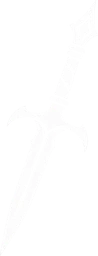
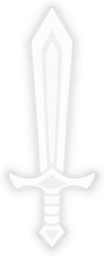
Nouveau cadre : texte des effets plafonné qui défile, épée et bouclier simplifiés
- Le texte de règles a une hauteur maximale et défile avec une barre fine et
  dorée (Le Géant Chromatique ne recouvre plus l'illustration).
- Épée et bouclier v2 ; `ICONES_REV` dans l'adresse des icônes pour passer
  le cache quand une icône est remplacée sous le même nom.
- La page de test montre aussi la carte au texte le plus long.

diff --git a/features/cadre-preview/NouveauCadreCard.tsx b/features/cadre-preview/NouveauCadreCard.tsx
@@ -28,6 +28,12 @@ import styles from "@/features/cadre-preview/NouveauCadreCard.module.css";
  * Toutes les icônes (type, cerveau, épée, bouclier) sont fournies, blanches.
  */
 const ASSETS = "/assets/cards/frames/nouveau";
+/**
+ * Version des icônes (type, cerveau, épée, bouclier) : une icône remplacée
+ * sous le même nom resterait un jour en cache (service worker + HTTP).
+ * À monter à chaque nouvelle livraison d'icônes.
+ */
+const ICONES_REV = 2;
 
 export interface NouveauCadreFaceProps {
   def: CardDefinition;
@@ -115,7 +121,7 @@ export function NouveauCadreFace({ def, legendaire = false, attack, health, atta
       <div className="absolute flex flex-col items-center text-white" style={{ top: "5%", right: "10%", width: "20%" }}>
         {/* eslint-disable-next-line @next/next/no-img-element */}
         <img
-          src={`${ASSETS}/types/${def.type}.webp`}
+          src={`${ASSETS}/types/${def.type}.webp?v=${ICONES_REV}`}
           alt=""
           className="object-contain"
           style={{ height: "13cqw", width: "auto", filter: "drop-shadow(0 0.4cqw 0.6cqw rgba(0,0,0,0.7))" }}
@@ -142,8 +148,9 @@ export function NouveauCadreFace({ def, legendaire = false, attack, health, atta
         </h3>
         {def.text && (
           <p
-            className="font-semibold [font-family:var(--font-card-body)]"
-            style={{ fontSize: `${rulesSizeCqw(def.text)}cqw`, lineHeight: 1.2, marginTop: "3cqw", textShadow: RULES_SHADOW }}
+            // Hauteur plafonnée : un texte long (Le Géant Chromatique…) défile dans sa zone au lieu de recouvrir l'illustration.
+            className={`font-semibold [font-family:var(--font-card-body)] ${styles.regles}`}
+            style={{ fontSize: `${rulesSizeCqw(def.text)}cqw`, lineHeight: 1.2, marginTop: "3cqw", maxHeight: "36cqw", textShadow: RULES_SHADOW }}
           >
             {def.text}
           </p>
@@ -230,24 +237,24 @@ function nameSizeCqw(name: string): number {
 }
 
 function rulesSizeCqw(text: string): number {
-  if (text.length <= 90) return 5.4;
-  if (text.length <= 150) return 5;
-  if (text.length <= 220) return 4.4;
-  return 3.9;
+  if (text.length <= 90) return 5.2;
+  if (text.length <= 150) return 4.8;
+  if (text.length <= 220) return 4.3;
+  return 4;
 }
 
 /** Cerveau de Raison (icône fournie). */
 function BrainGlyph() {
-  return <StatIcon src={`${ASSETS}/cerveau.webp`} height="0.75em" />;
+  return <StatIcon src={`${ASSETS}/cerveau.webp?v=${ICONES_REV}`} height="0.75em" />;
 }
 
 /** Épée de Puissance et bouclier de Résistance : même hauteur, en `em` pour suivre le chiffre. */
 function SwordGlyph() {
-  return <StatIcon src={`${ASSETS}/epee.webp`} height="1.1em" />;
+  return <StatIcon src={`${ASSETS}/epee.webp?v=${ICONES_REV}`} height="1.1em" />;
 }
 
 function ShieldGlyph() {
-  return <StatIcon src={`${ASSETS}/bouclier.webp`} height="0.9em" />;
+  return <StatIcon src={`${ASSETS}/bouclier.webp?v=${ICONES_REV}`} height="0.9em" />;
 }
 
 /** L'épée, fine, monte un peu plus haut que le bouclier pour peser autant que lui. */

diff --git a/features/cadre-preview/CadrePreview.tsx b/features/cadre-preview/CadrePreview.tsx
@@ -5,7 +5,7 @@ import { CORE_SET, isAbyssalVariant, type CardDefinition, type CardType } from "
 import { CardTile } from "@/features/match/CardTile";
 import { NouveauCadreCard } from "@/features/cadre-preview/NouveauCadreCard";
 
-/** La carte de la maquette d'abord, puis une carte par type (une sans stats, une Résistance seule…), puis deux Abyssales. */
+/** La carte de la maquette d'abord, puis une carte par type (une sans stats, une Résistance seule…), puis deux Abyssales, puis le texte le plus long du catalogue (zone qui défile). */
 const MAQUETTE_ID = "la-bete-quon-nattend-plus";
 const TYPES: CardType[] = ["creature", "marin", "equipement", "structure", "objet", "anomalie"];
 
@@ -15,7 +15,8 @@ function echantillon(): CardDefinition[] {
     (card): card is CardDefinition => card !== undefined
   );
   const abyssales = CORE_SET.filter(isAbyssalVariant).slice(0, 2);
-  return [...(maquette ? [maquette] : []), ...parType, ...abyssales];
+  const texteLePlusLong = CORE_SET.reduce((longest, card) => ((card.text?.length ?? 0) > (longest.text?.length ?? 0) ? card : longest));
+  return [...(maquette ? [maquette] : []), ...parType, ...abyssales, texteLePlusLong];
 }
 
 /**

diff --git a/features/cadre-preview/NouveauCadreCard.module.css b/features/cadre-preview/NouveauCadreCard.module.css
@@ -140,6 +140,31 @@
   mask-image: linear-gradient(to bottom, #000 72%, transparent 100%);
 }
 
+/* Texte de règles plafonné : il défile au besoin, avec une barre fine et
+   dorée plutôt que la barre grise du système. La marge à droite laisse la
+   barre hors du texte. */
+.regles {
+  overflow-y: auto;
+  overscroll-behavior: contain;
+  padding-right: 1.5cqw;
+  scrollbar-width: thin;
+  scrollbar-color: rgba(232, 200, 140, 0.7) rgba(255, 255, 255, 0.08);
+}
+
+.regles::-webkit-scrollbar {
+  width: 1.2cqw;
+}
+
+.regles::-webkit-scrollbar-track {
+  background: rgba(255, 255, 255, 0.08);
+  border-radius: 1cqw;
+}
+
+.regles::-webkit-scrollbar-thumb {
+  background: linear-gradient(to bottom, rgba(245, 215, 150, 0.9), rgba(190, 140, 70, 0.9));
+  border-radius: 1cqw;
+}
+
 @media (prefers-reduced-motion: reduce) {
   .eclatDore,
   .refletNacre,
